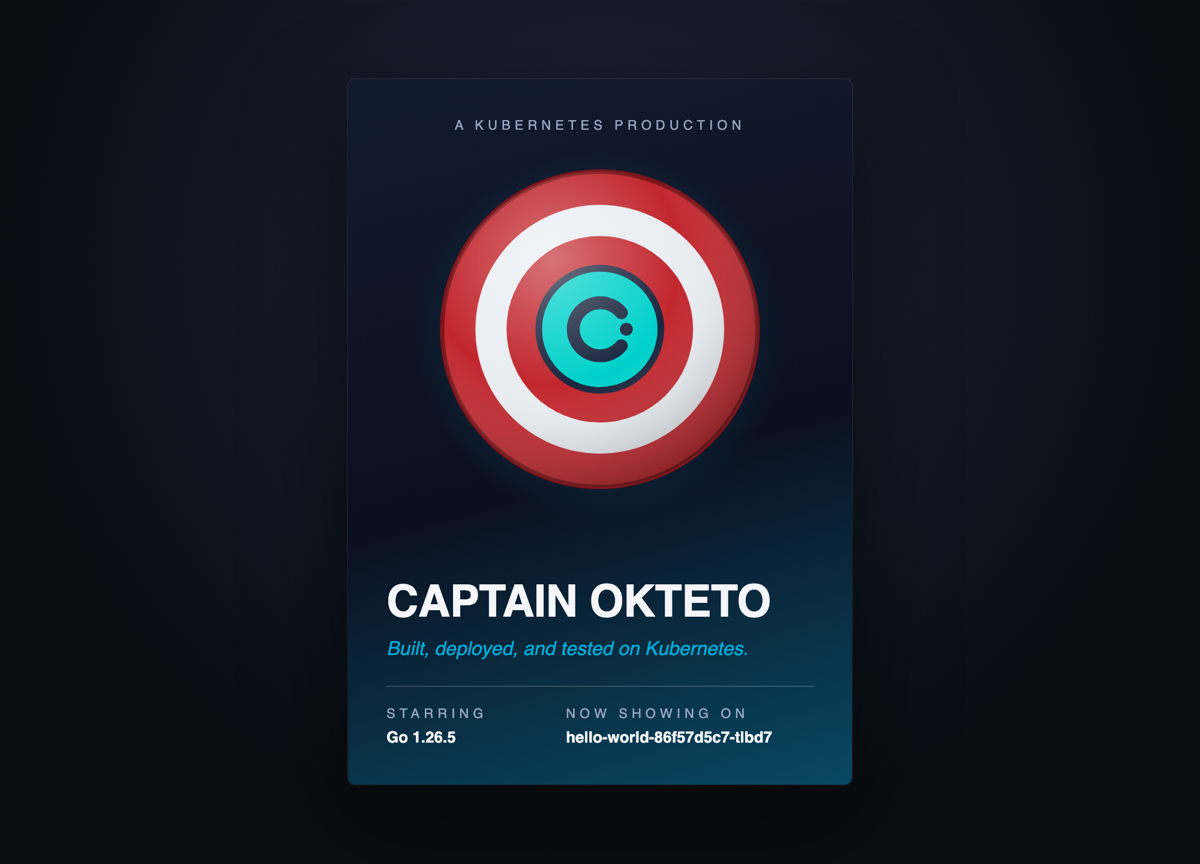
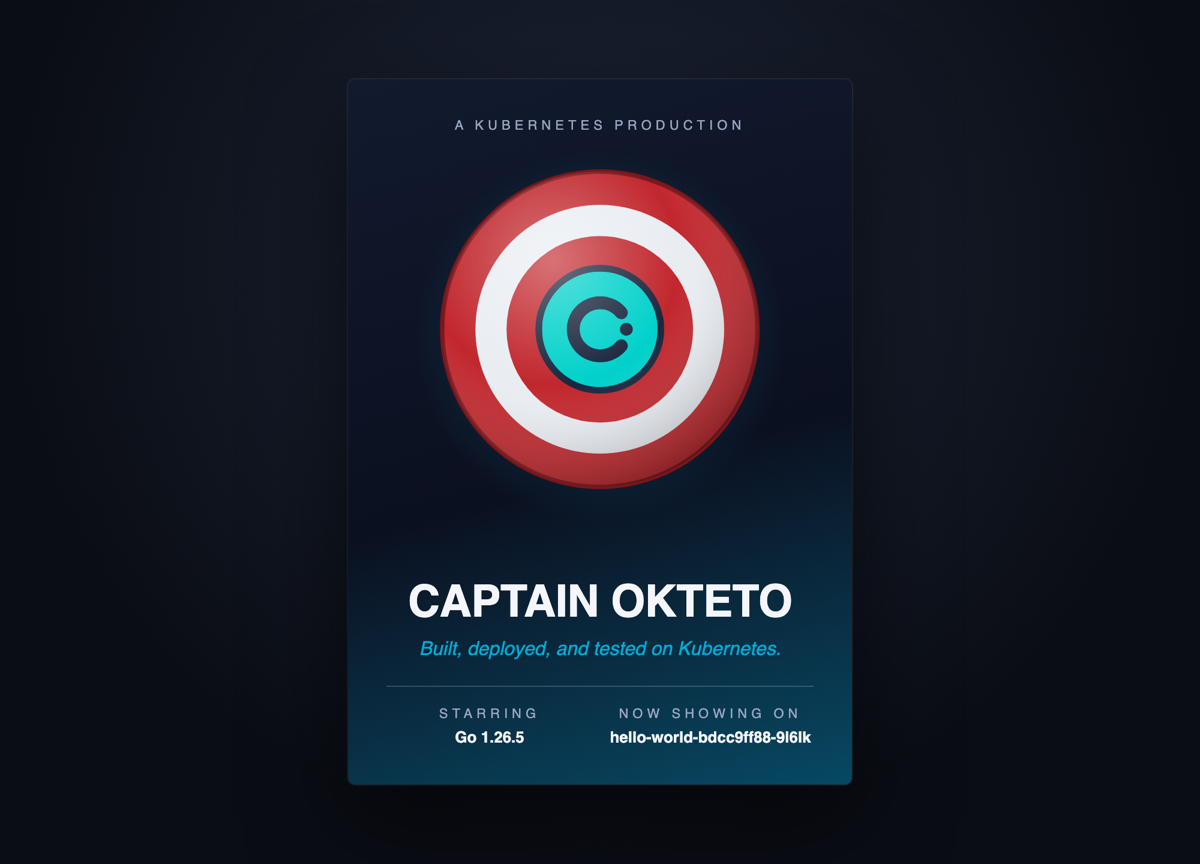
Center the texts of the poster

Changed region(s): [[0.3083, 0.6562, 0.6783, 0.7812], [0.4625, 0.8125, 0.6783, 0.875], [0.3083, 0.8125, 0.4317, 0.875]]

diff --git a/static/index.html b/static/index.html
@@ -30,6 +30,7 @@
         padding: 32px;
         display: flex;
         flex-direction: column;
+        text-align: center;
         overflow: hidden;
         border-radius: 6px;
         background: linear-gradient(165deg, #121a2e 0%, #0b1020 55%, var(--accent) 180%);
@@ -51,7 +52,7 @@
         text-transform: uppercase;
         color: #9aa7c2;
       }
-      .original { position: relative; text-align: center; }
+      .original { position: relative; }
       .hero {
         position: relative;
         display: block;
@@ -77,7 +78,7 @@
         margin: 22px 0 0;
         padding-top: 16px;
         display: grid;
-        grid-template-columns: 2fr 3fr;
+        grid-template-columns: 1fr 1fr;
         gap: 12px;
         border-top: 1px solid rgba(255, 255, 255, 0.18);
       }
